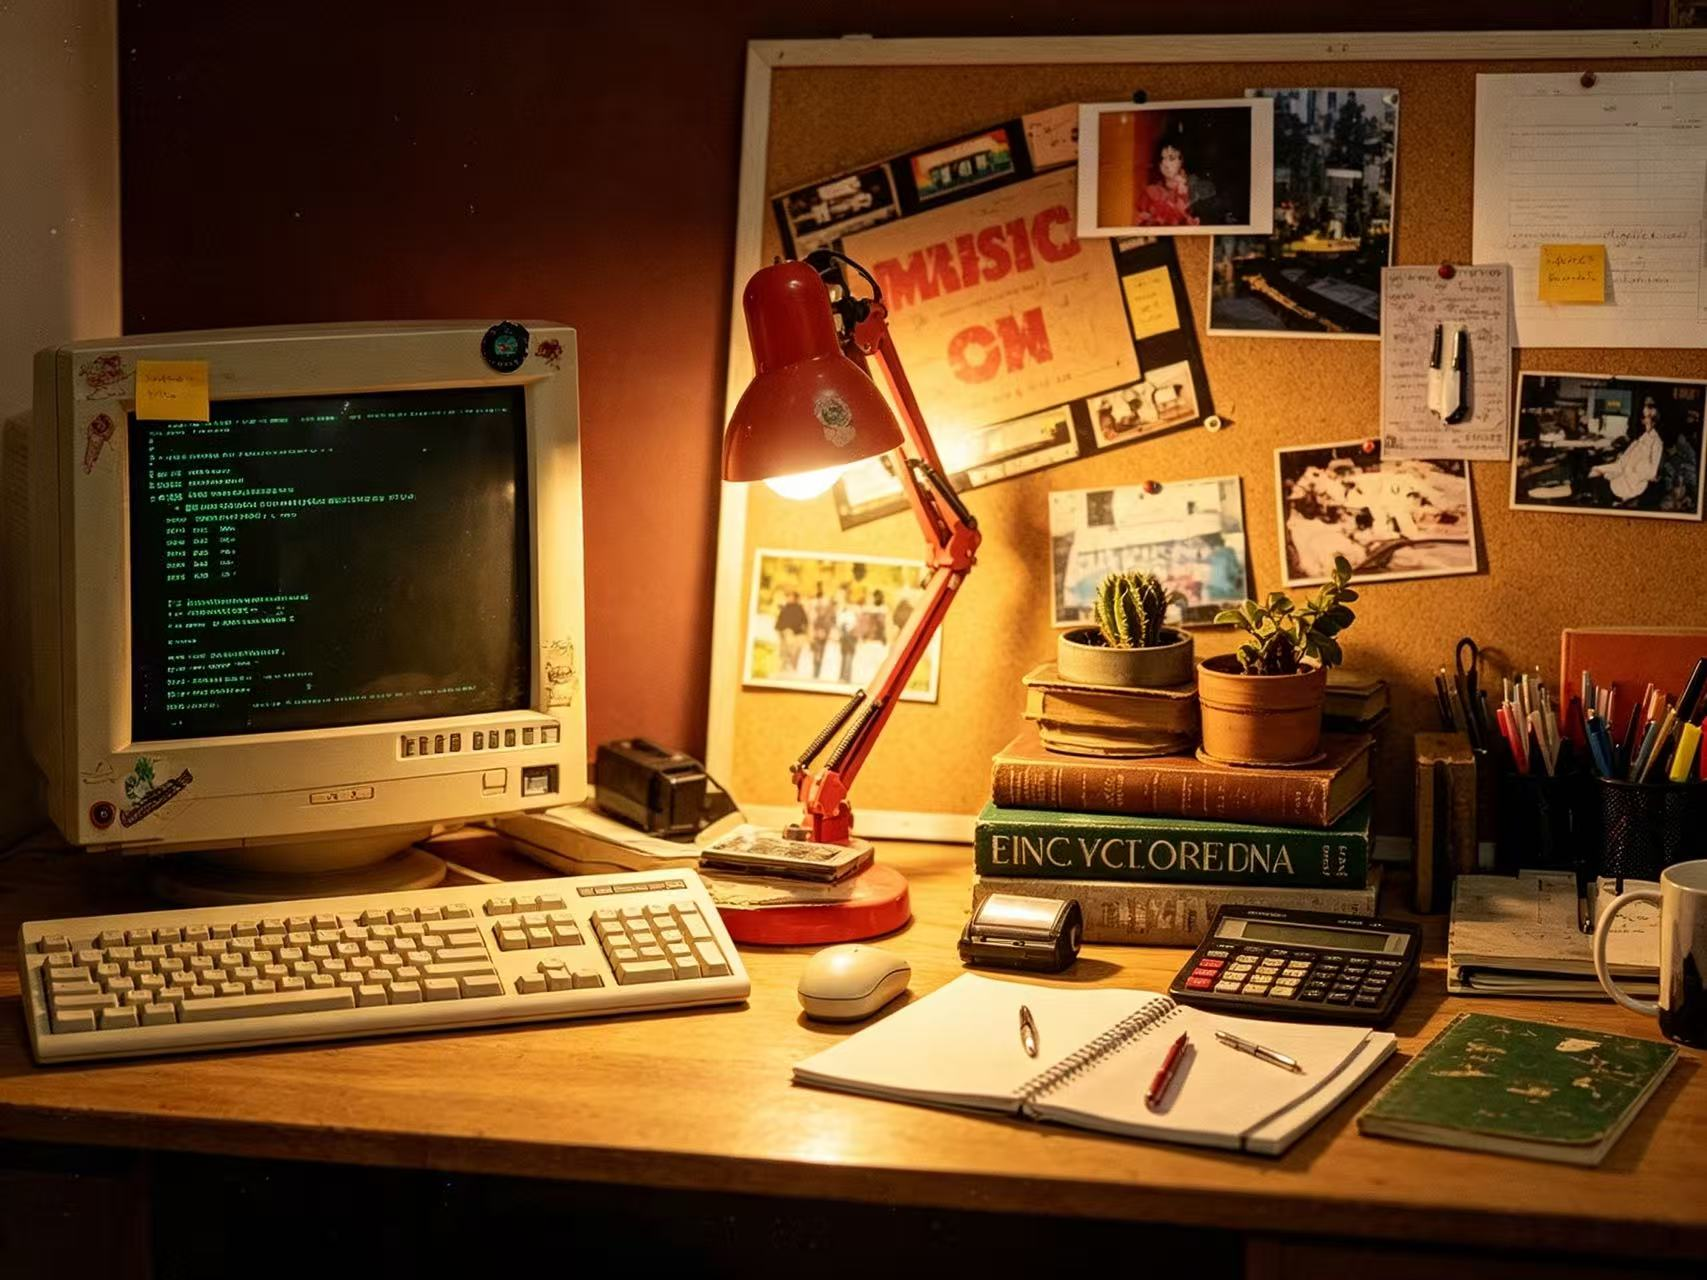
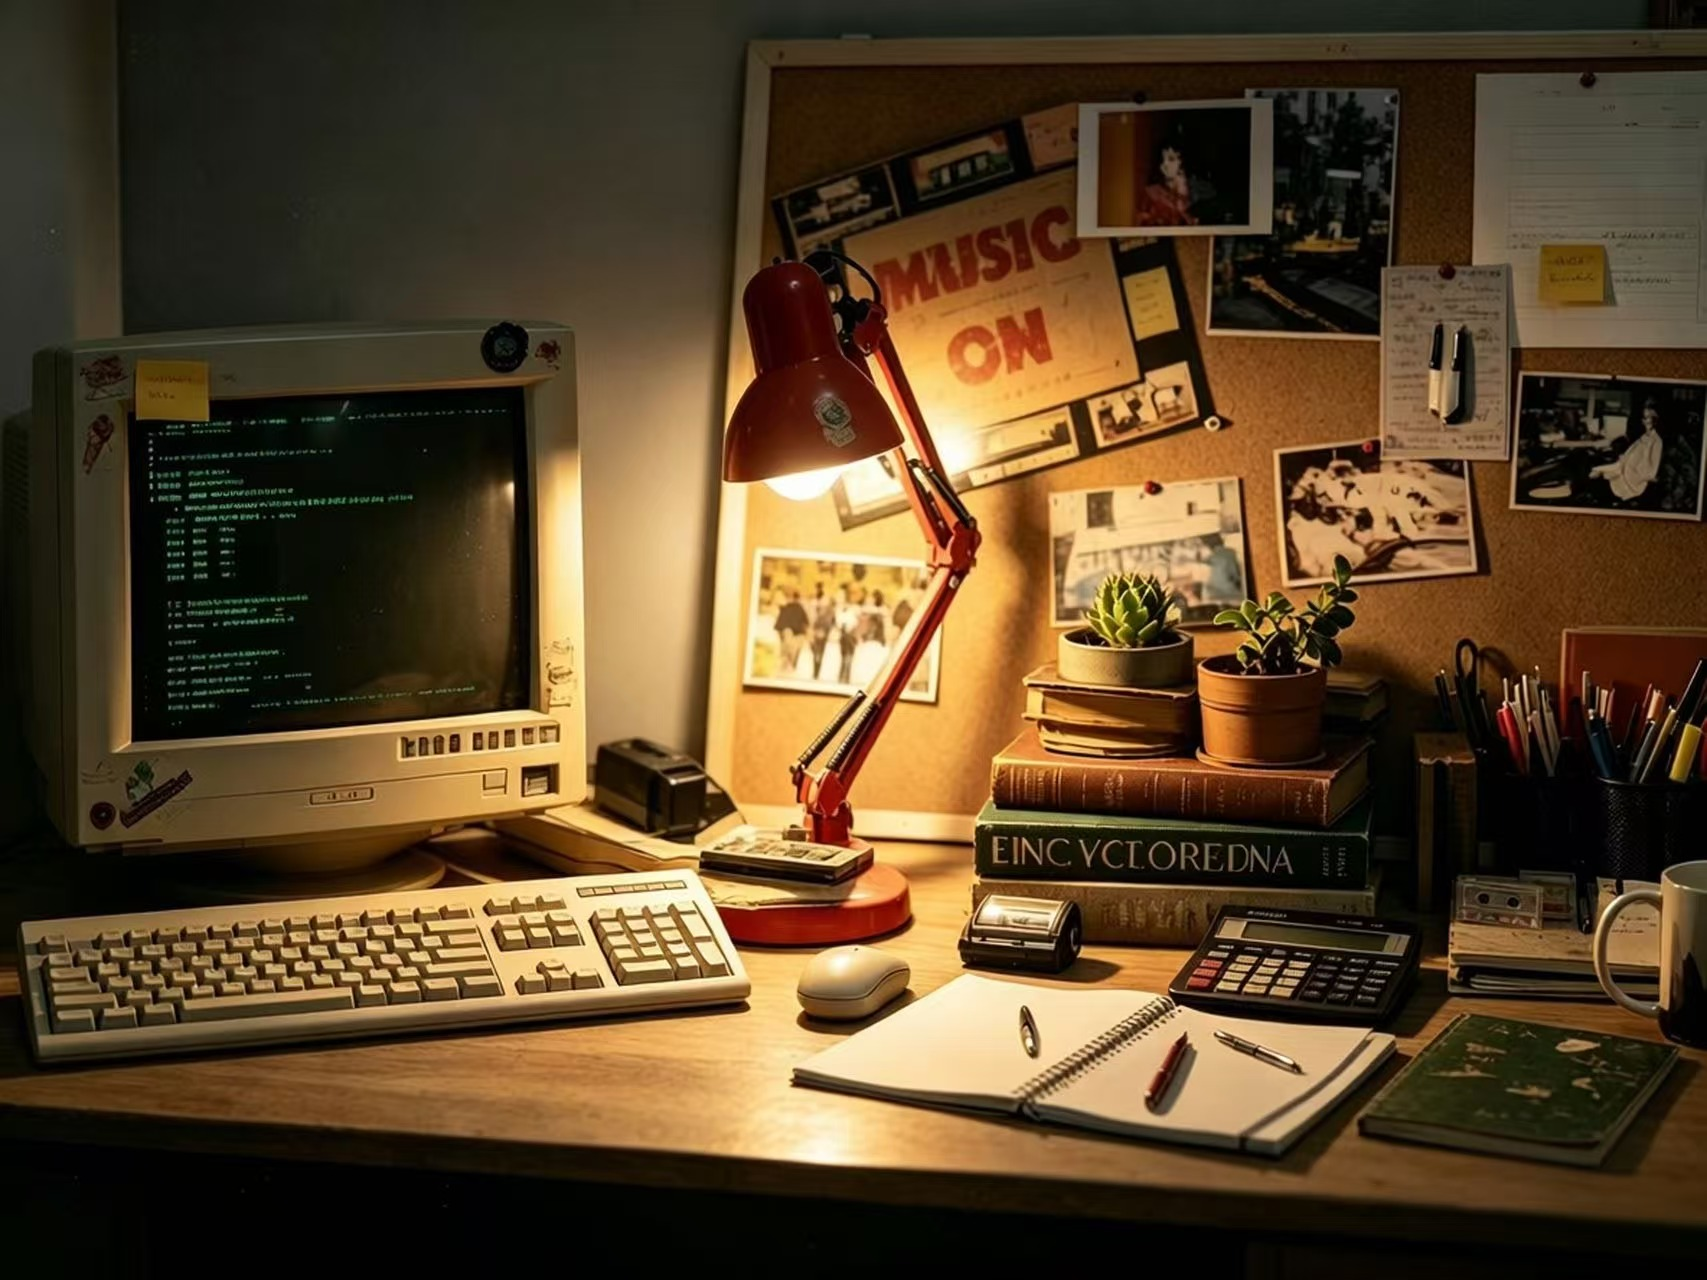
更新主页面引导细节

diff --git a/src/views/HomeView.vue b/src/views/HomeView.vue
@@ -1,5 +1,5 @@
 <script setup>
-import { ref } from 'vue'
+import { onMounted, onUnmounted, ref } from 'vue'
 import { useRouter } from 'vue-router'
 import DeskItem from '../components/DeskItem.vue'
 import { DESK_ASPECT, deskBackground, deskItems } from '../data/sceneLayout'
@@ -11,6 +11,10 @@ const { isTransitioning, playExitToClueWall } = useGameTransition()
 const { ready: bgReady } = useBlurUp(deskBackground.full)
 
 const overlayRef = ref(null)
+const sceneLit = ref(false)
+const tipsIn = ref(false)
+const secretTipOut = ref(false)
+let tipTimer = null
 
 async function onSelectItem(item) {
   if (isTransitioning.value) return
@@ -30,6 +34,23 @@ async function onSelectItem(item) {
     },
   })
 }
+
+function onDeskEnter(item) {
+  if (item.id === 'photo') secretTipOut.value = true
+}
+
+onMounted(() => {
+  requestAnimationFrame(() => {
+    sceneLit.value = true
+  })
+  tipTimer = setTimeout(() => {
+    tipsIn.value = true
+  }, 950)
+})
+
+onUnmounted(() => {
+  if (tipTimer) clearTimeout(tipTimer)
+})
 </script>
 
 <template>
@@ -65,7 +86,28 @@ async function onSelectItem(item) {
         :item="item"
         :disabled="isTransitioning"
         @select="onSelectItem"
+        @mouseenter="onDeskEnter(item)"
       />
+
+      <!-- 开屏提示：本子附近居中 -->
+      <div
+        class="home-tip home-tip--center"
+        :class="{ in: tipsIn }"
+        aria-hidden="true"
+      >
+        移动鼠标寻找线索
+      </div>
+      <!-- 开屏提示：照片旁（渐显 / 悬停照片后渐隐） -->
+      <div
+        class="home-tip home-tip--photo"
+        :class="{ in: tipsIn, out: secretTipOut }"
+        aria-hidden="true"
+      >
+        这里有秘密
+      </div>
+
+      <!-- 开屏黑幕：由黑渐亮 -->
+      <div class="scene-veil" :class="{ out: sceneLit }" aria-hidden="true" />
 
       <!-- 过渡遮罩（保留现有 GSAP 过渡） -->
       <div
@@ -75,3 +117,83 @@ async function onSelectItem(item) {
     </div>
   </div>
 </template>
+
+<style scoped>
+.scene-veil {
+  position: absolute;
+  inset: 0;
+  z-index: 25;
+  background: #000;
+  opacity: 1;
+  pointer-events: none;
+  transition: opacity 2s ease;
+}
+
+.scene-veil.out {
+  opacity: 0;
+}
+
+.home-tip {
+  position: absolute;
+  z-index: 15;
+  pointer-events: none;
+  padding: 10px 16px;
+  border-radius: 14px;
+  font-size: clamp(13px, 1.5vw, 16px);
+  font-weight: 500;
+  letter-spacing: 0.02em;
+  line-height: 1.35;
+  white-space: nowrap;
+  opacity: 0;
+  transform: translateY(8px);
+  transition:
+    opacity 1.35s ease,
+    transform 1.35s ease;
+}
+
+.home-tip.in {
+  opacity: 1;
+  transform: translateY(0);
+}
+
+.home-tip--center {
+  left: 48%;
+  top: 79%;
+  transform: translate(-50%, 8px);
+  color: #fff;
+  background: rgba(78, 44, 28, 0.86);
+  border: 1px solid rgba(210, 150, 100, 0.28);
+  box-shadow:
+    inset 0 1px 0 rgba(255, 220, 180, 0.18),
+    0 0 10px rgba(200, 110, 55, 0.4),
+    0 0 22px rgba(160, 80, 35, 0.28),
+    0 4px 14px rgba(0, 0, 0, 0.32);
+  backdrop-filter: blur(10px) saturate(1.1);
+  -webkit-backdrop-filter: blur(10px) saturate(1.1);
+}
+
+.home-tip--center.in {
+  transform: translate(-50%, 0);
+}
+
+.home-tip--photo {
+  left: 78%;
+  top: 16%;
+  color: rgba(28, 28, 28, 0.88);
+  background: rgba(245, 245, 245, 0.38);
+  border: 1px solid rgba(255, 255, 255, 0.45);
+  box-shadow:
+    inset 0 1px 0 rgba(255, 255, 255, 0.55),
+    0 4px 18px rgba(0, 0, 0, 0.18);
+  backdrop-filter: blur(12px) saturate(1.15);
+  -webkit-backdrop-filter: blur(12px) saturate(1.15);
+}
+
+.home-tip--photo.out {
+  opacity: 0;
+  transform: translateY(-4px);
+  transition:
+    opacity 1.1s ease,
+    transform 1.1s ease;
+}
+</style>

diff --git a/src/data/sceneLayout.js b/src/data/sceneLayout.js
@@ -39,10 +39,10 @@ export const deskItems = [
     track: "ops",
     label: "线索板",
     src: photoImg,
-    x: 50,
-    y: 4,
-    w: 28.5 * DESK_ASPECT,
-    h: 37.5,
+    x: 47.5,
+    y: 3.5,
+    w: 36,
+    h: 43.5,
   },
   {
     id: "book",
